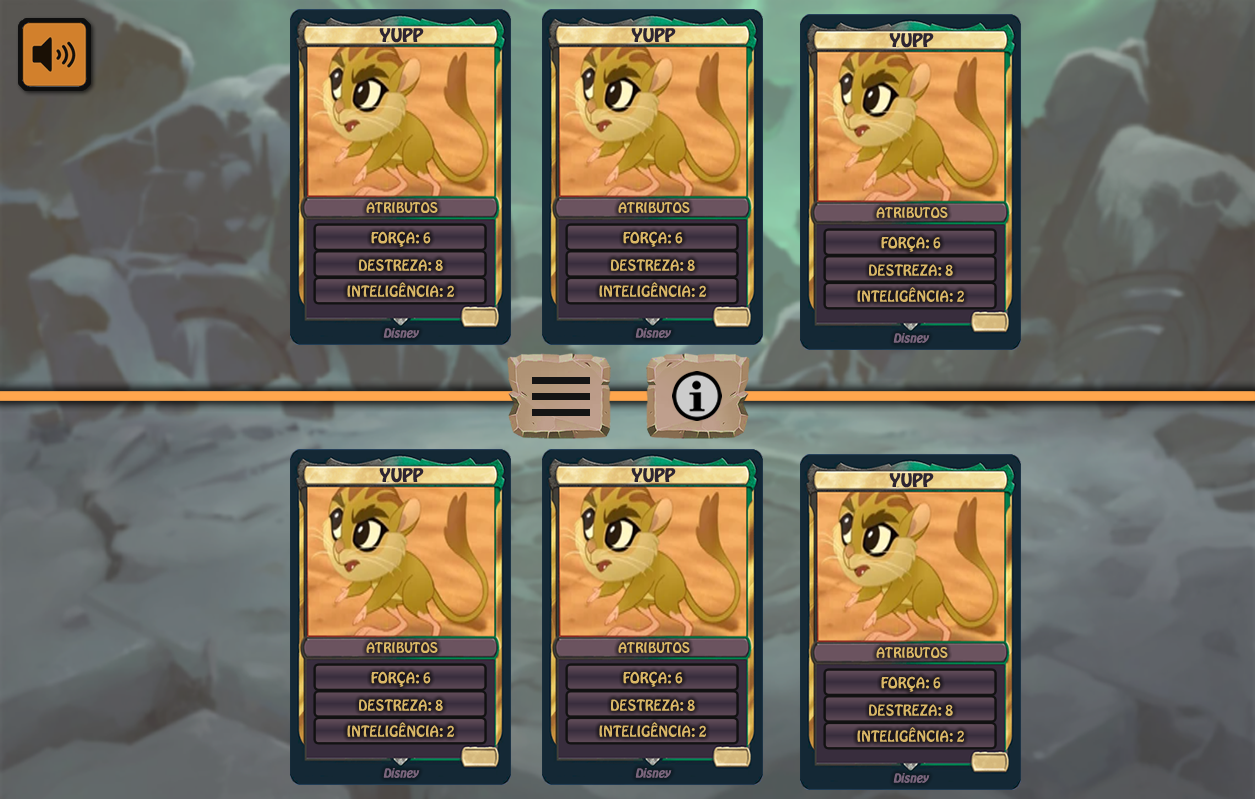
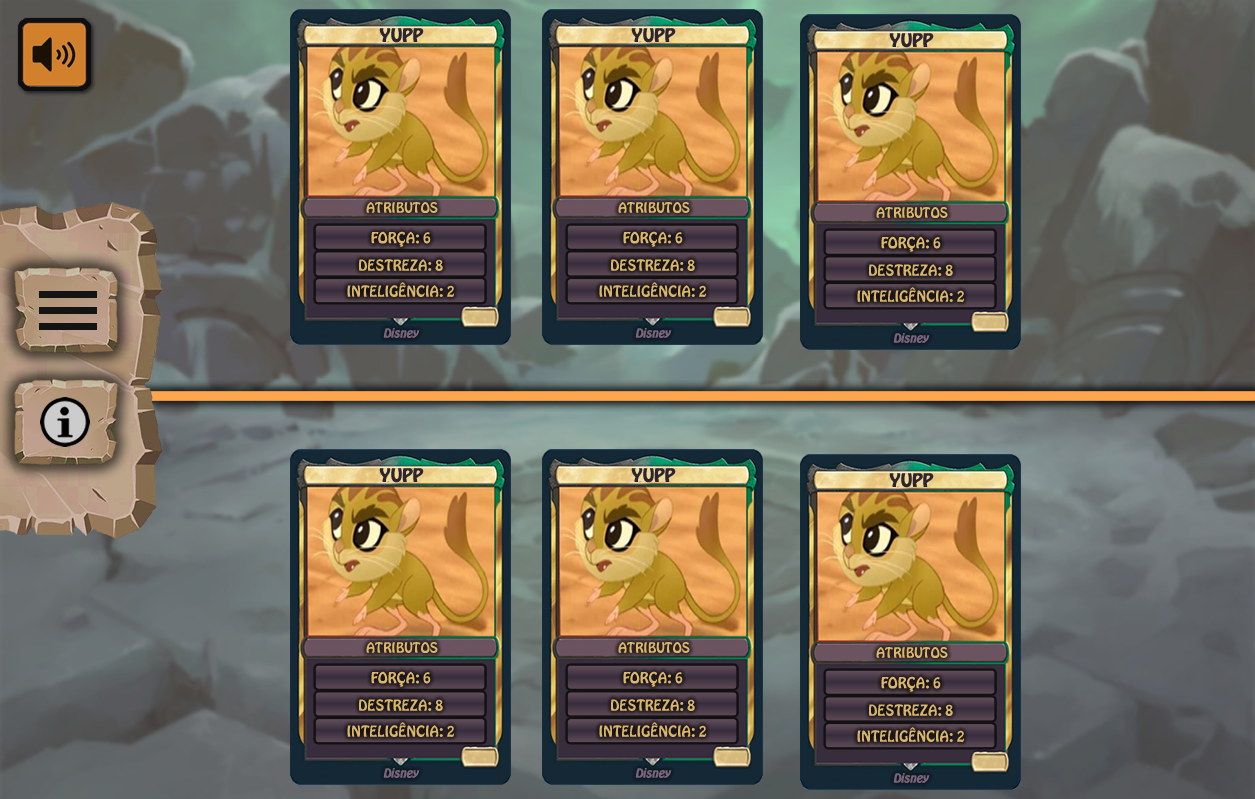
criação e estilização do painel de combate

Changed region(s): [[0.0, 0.2403, 0.1554, 0.6909], [0.404, 0.4205, 0.6215, 0.5707]]

diff --git a/src/pages/telaCombate/TelaCombate.tsx b/src/pages/telaCombate/TelaCombate.tsx
@@ -1,6 +1,6 @@
-import IMGBotaoMenu from "../../resources/images/botao-menu.png";
-import IMGBotaoInfo from "../../resources/images/botao-info.png";
 import Card from "../../components/cardGerador/Card";
+import PainelCombate from "../../components/painelCombate/PainelCombate";
+
 function TelaCombate() {
     const cardBase = {
         nome: "The Destroyer",
@@ -17,8 +17,7 @@ function TelaCombate() {
                 <Card nome={cardBase.nome} forca={cardBase.forca} inteligencia={cardBase.inteligencia} destreza={cardBase.destreza} />
             </div>
             <hr className="absolute left-0 top-[49%] h-[1.3vh] w-[100%] bg-[#FFA64D] border-0" />
-            <button className="z-10 bg-100% w-[8%] h-[6vw] right-[51.5%] top-[44.5%] absolute brightness-[0.85] hover:brightness-105" style={{backgroundImage:`url(${IMGBotaoMenu})`}} />
-            <button className="z-10 bg-100% w-[8%] h-[6vw] left-[51.5%] top-[44.5%] absolute brightness-[0.85] hover:brightness-105" style={{backgroundImage:`url(${IMGBotaoInfo})`}} />
+            <PainelCombate />
             <div className="h-[50%] flex items-start justify-center">
                 <Card nome={cardBase.nome} forca={cardBase.forca} inteligencia={cardBase.inteligencia} destreza={cardBase.destreza} />
                 <Card nome={cardBase.nome} forca={cardBase.forca} inteligencia={cardBase.inteligencia} destreza={cardBase.destreza} />

diff --git a/src/components/painelCombate/PainelCombate.tsx b/src/components/painelCombate/PainelCombate.tsx
@@ -1,0 +1,14 @@
+import IMGPainel from "../../resources/images/painel-direito.png";
+import IMGBotaoMenu from "../../resources/images/botao-menu.png";
+import IMGBotaoInfo from "../../resources/images/botao-info.png";
+
+function PainelCombate() {
+
+    return (
+        <div className="h-[42vh] w-[13%] bg-100% fixed top-[30vh] left-0 flex flex-col items-center justify-center pr-5" style={{backgroundImage:`url(${IMGPainel})`}}>
+            <button className="z-10 bg-100% w-[72%] h-[34%] brightness-[0.85] hover:brightness-105 mb-2" style={{backgroundImage:`url(${IMGBotaoMenu})`}} />
+            <button className="z-10 bg-100% w-[72%] h-[34%] brightness-[0.85] hover:brightness-105" style={{backgroundImage:`url(${IMGBotaoInfo})`}} />
+        </div>
+    )
+}
+export default PainelCombate;
